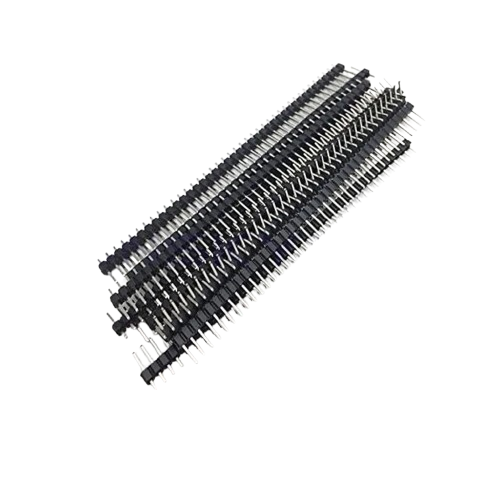
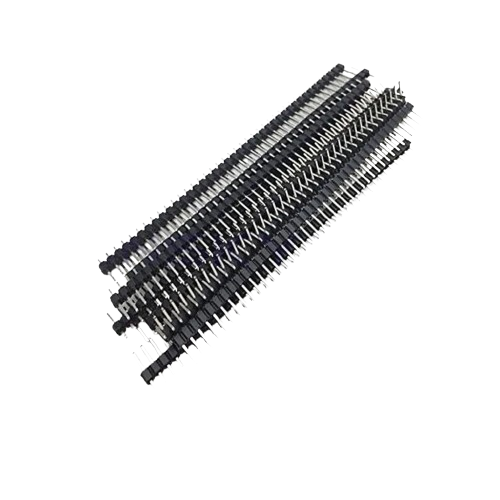
add water tank

diff --git a/README.md b/README.md
@@ -23,7 +23,7 @@ Each pot has its own moisture sensor and pump, allowing for precise watering bas
 | XL4015 Buck Converter | <img src="assets/xl4015-buck-converter.png" width="400" height="400"> | Adjustable DC-DC step-down converter (up to 5A). | Steps the battery voltage down to regulated 5V for the Arduino, sensors, and relay-module logic. The pumps receive battery power through the relay contacts. | 1 | [Buy here](https://s.shopee.ph/7AeicFrMbw) |
 | Peristaltic Pump | <img src="assets/peristaltic-pump.png" width="400" height="400"> | Pump that moves liquid by compressing a flexible tube; self-priming and accurate. | One pump per pot, switched by the relay module to deliver measured water from the tank to the plant. | 4 | [Buy here](https://s.shopee.ph/4VdxRtbxPP) |
 | Silicone Tubing | <img src="assets/silicone-tubing.png" width="400" height="400"> | Flexible, food-safe tubing. | Fitted to each peristaltic pump to carry water from the tank to the pot's drip outlet. | 4 | |
-| Water Tank (50L 570mm x 300mm x 300mm) | <img src="assets/water-tank-50l.png" width="400" height="400"> | Water storage tank for the irrigation system. | Stores rainwater collected for watering the plants. | 1 | [Buy here](https://s.shopee.ph/5q9L7JRwen) |
+| Water Tank (50L 570mm x 300mm x 300mm) | <img src="assets/water-tank.png" width="400" height="400"> | Water storage tank for the irrigation system. | Stores rainwater collected for watering the plants. | 1 | [Buy here](https://s.shopee.ph/5q9L7JRwen) |
 | Silicone Wire 22AWG | <img src="assets/silicone-wire-22awg.png" width="400" height="400"> | Thin, highly flexible heat-resistant wire. | Low-current signal wiring: sensor connections and Arduino-to-relay control lines. | 1 | [Buy here](https://s.shopee.ph/6AmBQVoPqb) |
 | Silicone Wire 20AWG | <img src="assets/silicone-wire-20awg.png" width="400" height="400"> | Slightly thicker, flexible heat-resistant wire. | Power wiring: battery, buck converter, relay module, and pump connections. | 1 | [Buy here](https://s.shopee.ph/6AmBQVoPqb) |
 | Waterproof ABS Enclosure (240mm x 160mm x 92mm) | <img src="assets/abs-enclosure.png" width="400" height="400"> | Sealed plastic housing that protects electronics from water and dust. | Two enclosures are mounted beneath the solar panel: one houses the electronics and battery, and the other houses the water pumps. | 2 | [Buy here](https://s.shopee.ph/LoOU0t4h9) |
